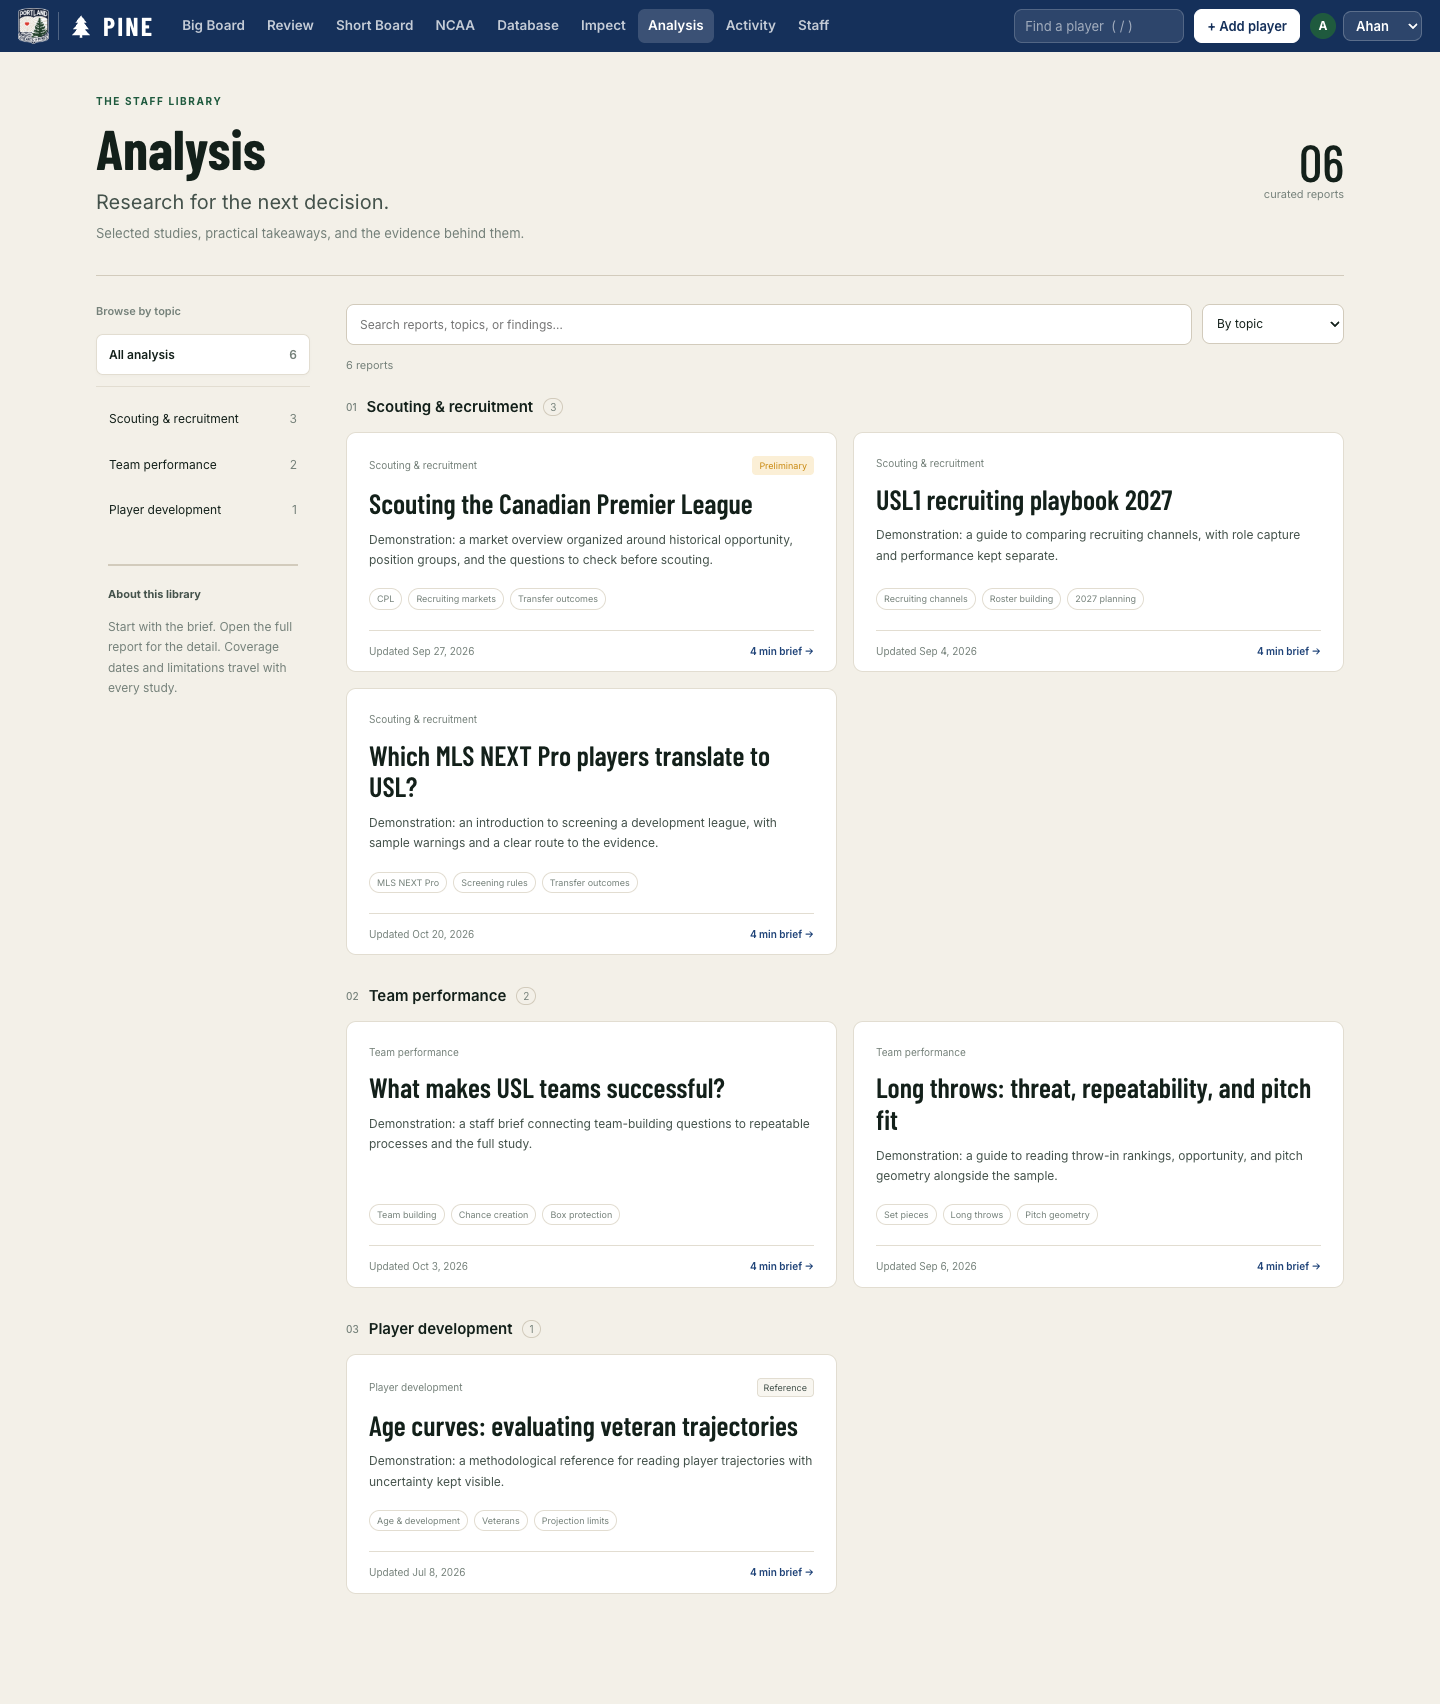
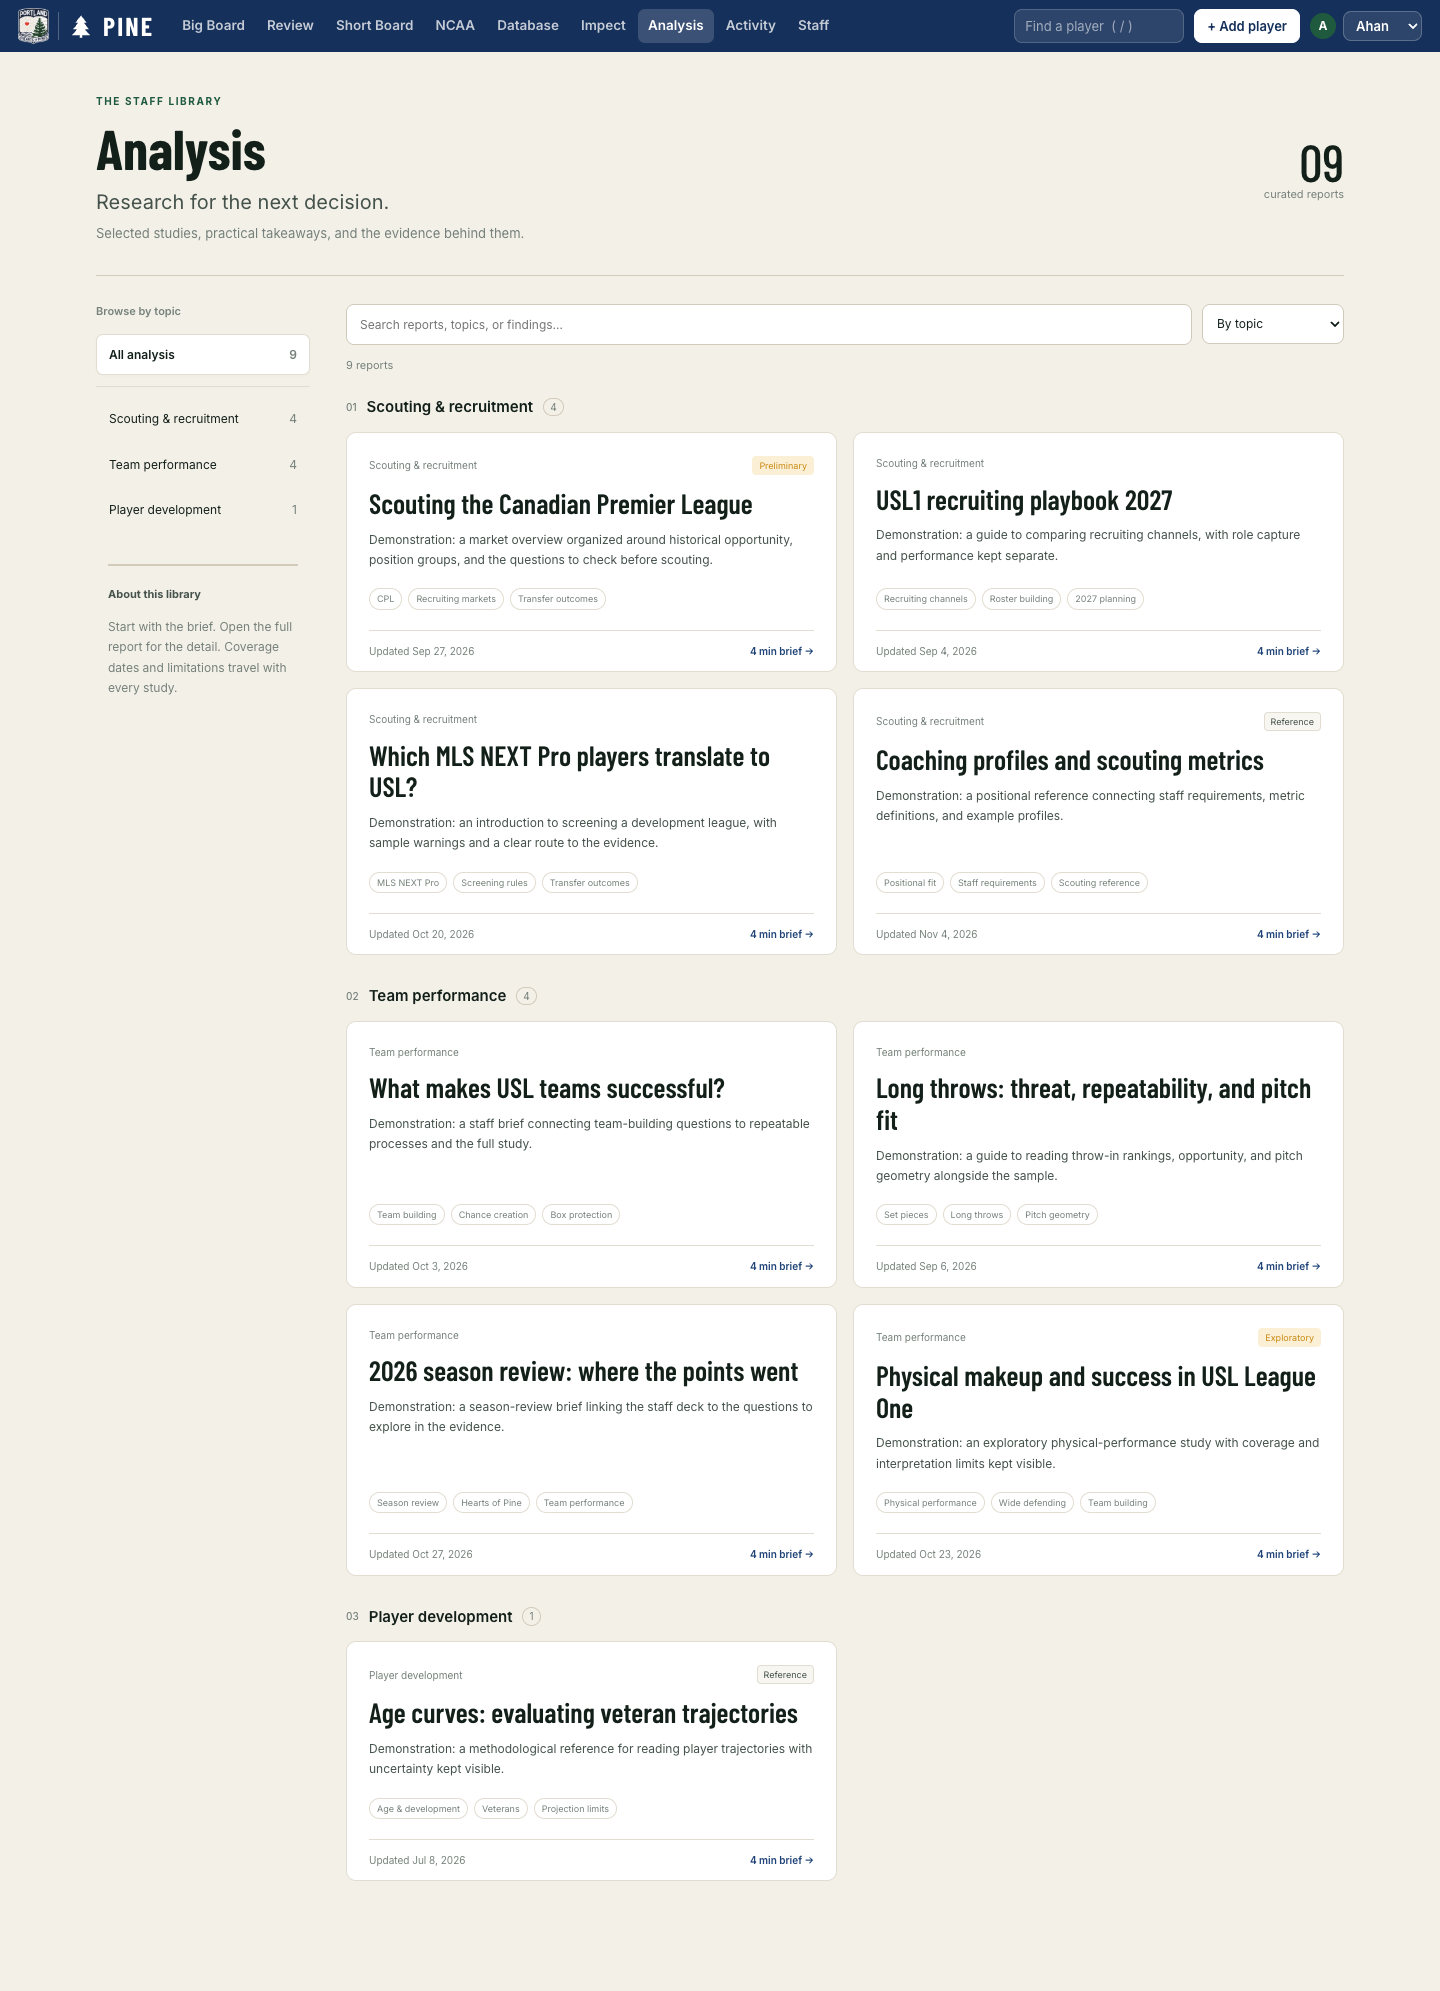
Support exploratory studies and preview the nine-report collection

diff --git a/scripts/analysis.test.js b/scripts/analysis.test.js
@@ -13,7 +13,7 @@ import { buildPublication } from './sync-analysis.mjs';
 import { demoPublication } from './fixtures/analysis-demo.mjs';
 
 test('curated publication rejects invalid provenance, dates, duplicate IDs and file tampering', () => {
-  assert.equal(validateAnalysis(demoPublication()).reports.length, 6);
+  assert.equal(validateAnalysis(demoPublication()).reports.length, 9);
   for (const edit of [
     x => { x.reports[0].source.sha256 = '0'.repeat(64); },
     x => { x.reports[0].source.ref = 'main'; },
@@ -44,7 +44,7 @@ test('publication is atomic, survives restart, excludes file bodies in listing a
   const list = await app.request('/api/analysis');
   assert.match(list.headers.get('cache-control'), /private, no-store/);
   const metadata = await list.json();
-  assert.equal(metadata.reports.length, 6);
+  assert.equal(metadata.reports.length, 9);
   assert.equal(metadata.reports[0].source.text, undefined);
   assert.equal(metadata.reports[0].documents[0].data, undefined);
   const attachment = await app.request('/api/analysis/cpl-scouting/files/report?download=1');
@@ -57,7 +57,7 @@ test('publication is atomic, survives restart, excludes file bodies in listing a
   assert.equal((await upload(invalid)).status, 400);
   assert.equal((await upload(snapshot)).status, 409);
   db.raw.close(); open();
-  assert.equal((await (await app.request('/api/analysis')).json()).reports.length, 6);
+  assert.equal((await (await app.request('/api/analysis')).json()).reports.length, 9);
   const withdrawn = { schema_version: 1, generated_at: new Date(Date.now() + 100).toISOString(), reports: [] };
   assert.equal((await upload(withdrawn)).status, 200);
   assert.equal((await app.request('/api/analysis/cpl-scouting')).status, 404);
@@ -67,10 +67,10 @@ test('publication is atomic, survives restart, excludes file bodies in listing a
 test('search supports multiple terms, accents, brief text, topic filters and independent sorting', () => {
   const reports = demoPublication().reports;
   assert.equal(filterReports(reports, { q: 'CPL opportunity' }).length, 1);
-  assert.equal(filterReports(reports, { q: 'demonstrátion', topic: 'Team performance' }).length, 2);
+  assert.equal(filterReports(reports, { q: 'demonstrátion', topic: 'Team performance' }).length, 4);
   assert.equal(filterReports(reports, { q: 'no such finding' }).length, 0);
-  assert.equal(filterReports(reports, { sort: 'newest' })[0].slug, 'mlsnp-graduation');
-  assert.equal(filterReports(reports, { sort: 'title' })[0].slug, 'age-curves');
+  assert.equal(filterReports(reports, { sort: 'newest' })[0].slug, 'coaching-positional-profiles');
+  assert.equal(filterReports(reports, { sort: 'title' })[0].slug, 'season-review-2026');
   assert.equal(reports[0].slug, 'cpl-scouting', 'sorting does not mutate catalog order');
 });
 

diff --git a/src/lib/analysis.js b/src/lib/analysis.js
@@ -22,7 +22,7 @@ export function validateAnalysis(input) {
   for (const r of input.reports) {
     if (!exact(r, ['slug', 'title', 'topic', 'summary', 'updated', 'reviewed', 'review_after', 'coverage', 'status', 'read_minutes', 'tags', 'takeaways', 'limitations', 'sections', 'source', 'documents']) ||
         !text(r.slug, 80) || !slug.test(r.slug) || ids.has(r.slug) || !text(r.title, 160) || !ANALYSIS_TOPICS.includes(r.topic) ||
-        !text(r.summary, 600) || !['Analysis', 'Reference', 'Preliminary'].includes(r.status) || !text(r.coverage, 600) ||
+        !text(r.summary, 600) || !['Analysis', 'Reference', 'Preliminary', 'Exploratory'].includes(r.status) || !text(r.coverage, 600) ||
         ![r.updated, r.reviewed, r.review_after].every(validDate) || r.review_after < r.reviewed || r.updated > r.reviewed ||
         r.reviewed > new Date().toISOString().slice(0, 10) || !Number.isInteger(r.read_minutes) || r.read_minutes < 1 || r.read_minutes > 120 ||
         !strings(r.tags, 12) || !strings(r.takeaways, 8) || !r.takeaways.length || !text(r.limitations) ||

diff --git a/public/analysis.js b/public/analysis.js
@@ -18,7 +18,7 @@ export function filterReports(reports, { q = '', topic = '', sort = 'curated' } 
   return selected;
 }
 
-const statusHTML = r => `${r.status !== 'Analysis' ? `<span class="al-status ${r.status === 'Preliminary' ? 'preliminary' : ''}">${esc(r.status)}</span>` : ''}${due(r) ? '<span class="al-status preliminary">Review due</span>' : ''}`;
+const statusHTML = r => `${r.status !== 'Analysis' ? `<span class="al-status ${['Preliminary', 'Exploratory'].includes(r.status) ? 'preliminary' : ''}">${esc(r.status)}</span>` : ''}${due(r) ? '<span class="al-status preliminary">Review due</span>' : ''}`;
 
 export async function renderAnalysis(main, arg, { api, setTitle }) {
   main.innerHTML = '<div class="page al-page"><p class="loading">Loading analysis…</p></div>';

diff --git a/docs/analysis.md b/docs/analysis.md
@@ -7,8 +7,8 @@ limitations, editorial review dates, source provenance and downloads. PDFs open
 from authenticated endpoints; staff do not need access to the source repository.
 
 The initial selection and real content are reviewed in a companion PR in the
-private Hearts of PINE repository. It includes the five requested topics and
-one additional recent study, MLS NEXT Pro graduation. The three topic groups are
+private Hearts of PINE repository. It includes nine reports: the five requested topics, MLS NEXT Pro graduation,
+the 2026 season review, coaching positional profiles, and physical makeup. The three topic groups are
 Scouting & recruitment, Team performance, and Player development. Older or
 superseded reports and unfinished research do not automatically enter the library.
 
@@ -32,6 +32,10 @@ do not open the read endpoints, and staff sessions cannot publish. Reads use
 `Cache-Control: private, no-store`. Markdown downloads are plain-text attachments;
 brief content is escaped text, never raw HTML. There are no static report URLs.
 
+Exploratory research carries an explicit amber **Exploratory** label on its card
+and brief. Coaching requirements are a reference; proposed metric weights remain
+unapproved in the accompanying proposal.
+
 A missing initial publication produces a clear empty state. Withdrawn or unknown
 report links produce a not-found state. Failures offer a retry and do not insert
 late responses into a different page. Publication dates distinguish the report's
@@ -42,7 +46,8 @@ due** rather than silently pretending a study was refreshed.
 
 1. Merge the private catalog PR and deploy this PINE PR.
 2. On the analysis host, fetch the private repository including its source
-   branches. The initial CPL report is pinned from its separate review branch;
+   branches. The CPL, season-review, coaching-profile and physical-study sources are pinned
+   from separate review branches;
    the private guide records the exact prerequisite.
 3. Validate a publication locally, writing only to a private location:
 

diff --git a/docs/screenshots/analysis/README.md b/docs/screenshots/analysis/README.md
@@ -3,7 +3,7 @@
 Every screenshot uses `node scripts/preview-analysis.mjs`: a disposable database
 with fictional report findings and a sample PDF. No private report body, player
 information, staff notes, board rankings, or production address appears here.
-Report titles identify the proposed collection; substantive findings are reviewed
+The nine demonstration report titles identify the proposed collection; substantive findings are reviewed
 only in the companion private Hearts of PINE catalog PR.
 
 | View | Light | Dark |
